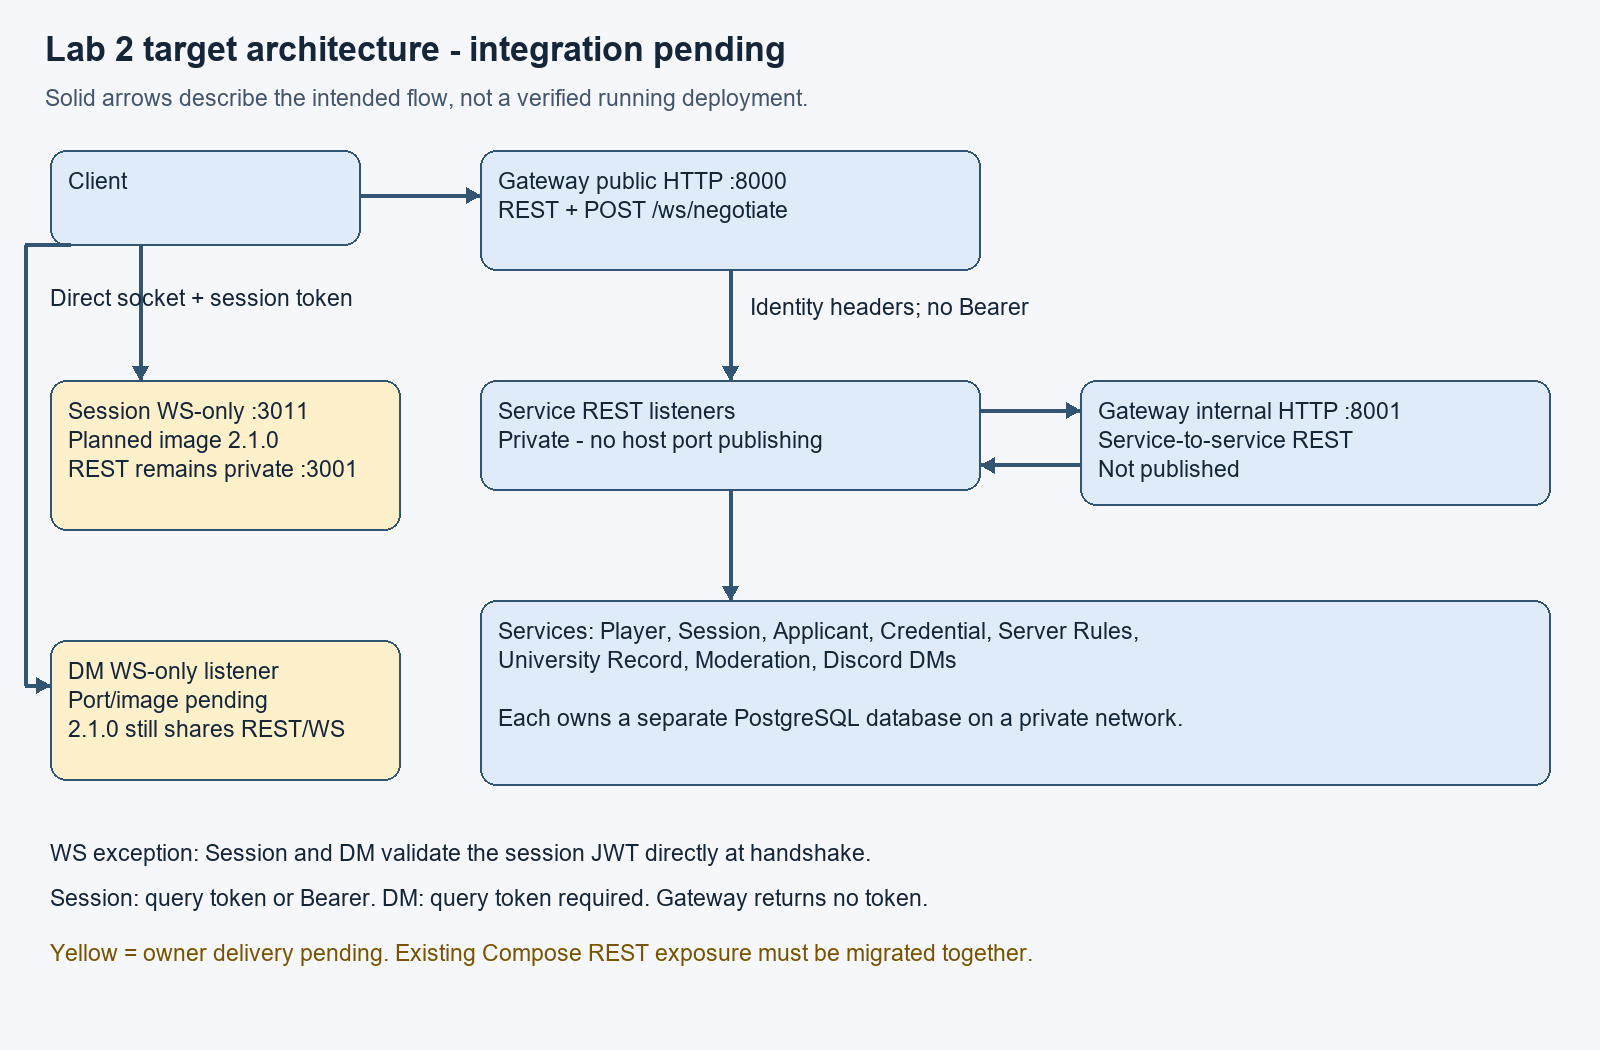
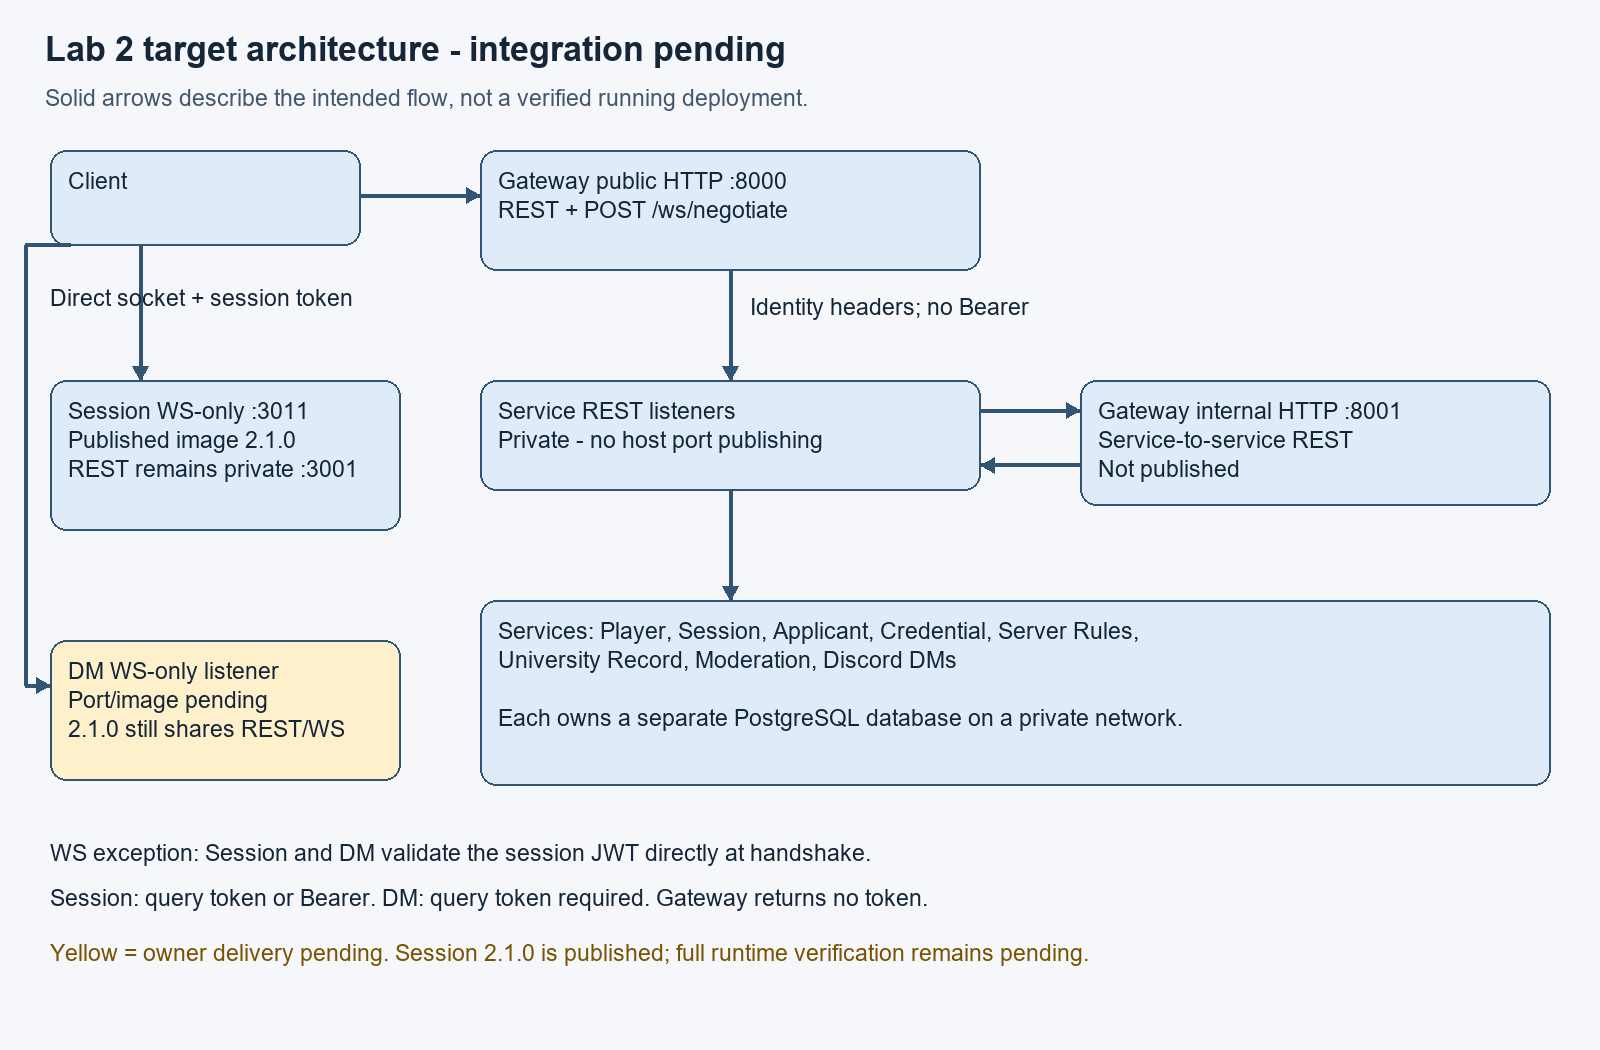
Verify Session WebSocket integration and improve startup diagnostics

Changed region(s): [[0.0312, 0.3657, 0.25, 0.5181], [0.25, 0.8838, 0.6875, 0.9143]]

diff --git a/tests/verify_compose_gateway.py b/tests/verify_compose_gateway.py
@@ -34,11 +34,12 @@ with response: print(json.dumps([response.status,response.read().decode()]))
 """
 
 
-def run(command, input=None, timeout=180):
-    result = subprocess.run(command, input=input, text=True, capture_output=True, timeout=timeout)
+def run(command, input=None, timeout=180, live=False):
+    result = subprocess.run(command, input=input, text=True, capture_output=not live, timeout=timeout)
     if result.returncode:
-        raise RuntimeError(result.stderr.strip() or result.stdout.strip())
-    return result.stdout.strip()
+        raise RuntimeError((result.stderr or "").strip() or (result.stdout or "").strip()
+                           or f"Command failed with exit code {result.returncode}; see output above.")
+    return (result.stdout or "").strip()
 
 
 def decode(body):
@@ -68,12 +69,14 @@ def free_port():
         return sock.getsockname()[1]
 
 
-def websocket_status(port, path):
+def websocket_status(port, path, token=None):
     with socket.create_connection(('127.0.0.1', port), timeout=10) as sock:
         key = base64.b64encode(secrets.token_bytes(16)).decode()
+        authorization = '' if token is None else f'Authorization: Bearer {token}\r\n'
         request = (f'GET {path} HTTP/1.1\r\nHost: 127.0.0.1:{port}\r\n'
                    'Upgrade: websocket\r\nConnection: Upgrade\r\n'
-                   f'Sec-WebSocket-Key: {key}\r\nSec-WebSocket-Version: 13\r\n\r\n')
+                   f'Sec-WebSocket-Key: {key}\r\nSec-WebSocket-Version: 13\r\n'
+                   f'{authorization}\r\n')
         sock.sendall(request.encode())
         return int(sock.recv(4096).split(b'\r\n', 1)[0].split()[1])
 
@@ -129,8 +132,8 @@ def main():
         command = ['docker', 'compose', '--project-directory', str(ROOT), '--env-file', str(env_file),
                    '-f', str(ROOT / 'docker-compose.yml'), '-p', project]
 
-        def compose(*parts, input=None):
-            return run([*command, *parts], input=input)
+        def compose(*parts, input=None, timeout=180, live=False):
+            return run([*command, *parts], input=input, timeout=timeout, live=live)
 
         def internal(path, method='GET', body=None, headers=None):
             headers = dict(headers or {})
@@ -152,15 +155,26 @@ def main():
                   [p['target'] for p in config['services']['session']['ports']], [3011])
             check('Player calls Session through internal Gateway',
                   config['services']['player']['environment']['SESSION_BASE_URL'], 'http://gateway:8001/session')
-            print('Starting disposable common Compose project...', flush=True)
+            # Pull missing images separately: downloads must not consume the
+            # service readiness deadline. Never pull over a local Gateway build.
+            for image in sorted({service['image'] for service in config['services'].values()}):
+                present = subprocess.run(['docker', 'image', 'inspect', image],
+                    stdout=subprocess.DEVNULL, stderr=subprocess.DEVNULL, timeout=30)
+                if present.returncode:
+                    if image == args.gateway_image:
+                        raise RuntimeError(f'Gateway image {image} is missing locally. Build or pull it first.')
+                    print(f'Downloading missing image: {image}', flush=True)
+                    run(['docker', 'pull', image], timeout=900, live=True)
+            print('Starting disposable common Compose project (readiness limit: 300 seconds)...', flush=True)
             try:
-                compose('up', '-d', '--wait', '--wait-timeout', '120')
-            except RuntimeError:
+                compose('up', '-d', '--pull', 'never', '--wait', '--wait-timeout', '300',
+                        timeout=600, live=True)
+            except (RuntimeError, subprocess.TimeoutExpired):
                 # Preserve startup diagnostics before disposable resources are
                 # removed. Startup logs contain no test accounts or tokens.
                 for row in compose('ps', '--all', '--format', 'json').splitlines():
                     container = json.loads(row)
-                    if container['State'] == 'exited':
+                    if container['State'] != 'running' or container.get('Health') == 'unhealthy':
                         service = container['Service']
                         print(compose('logs', '--no-color', '--tail', '35', service), flush=True)
                 raise
@@ -229,6 +243,12 @@ def main():
                   websocket_status(session_ws.port, session_ws.path + '?token=' + session['sessionToken']), 101)
             check('Session WS rejects an invalid token',
                   websocket_status(ports[1], f'/sessions/{session_id}/live?token=invalid'), 401)
+            check('Session WS accepts Bearer transport',
+                  websocket_status(session_ws.port, session_ws.path, session['sessionToken']), 101)
+            check('Session WS rejects a missing token',
+                  websocket_status(session_ws.port, session_ws.path), 401)
+            check('Session WS rejects a mismatched session',
+                  websocket_status(session_ws.port, f'/sessions/{uuid.uuid4()}/live', session['sessionToken']), 403)
             check('DM WS validates the same session token',
                   websocket_status(dm_ws.port, dm_ws.path + '?' + dm_ws.query + '&token=' + session['sessionToken']), 101)
             check('DM WS rejects an invalid token', websocket_status(ports[2], f'/ws?sessionId={session_id}&token=invalid'), 401)

diff --git a/scripts/render_gateway_diagram.py b/scripts/render_gateway_diagram.py
@@ -35,7 +35,7 @@ d.text((750,294),'Identity headers; no Bearer',font=font,fill='#152638')
 box((1080,380,1550,505),'Gateway internal HTTP :8001\nService-to-service REST\nNot published')
 arrow([(980,410),(1080,410)])
 arrow([(1080,465),(980,465)])
-box((50,380,400,530),'Session WS-only :3011\nPlanned image 2.1.0\nREST remains private :3001', '#fff0cc')
+box((50,380,400,530),'Session WS-only :3011\nPublished image 2.1.0\nREST remains private :3001', '#e0ebfa')
 arrow([(140,245),(140,380)])
 d.text((50,285),'Direct socket + session token',font=font,fill='#152638')
 box((50,640,400,780),'DM WS-only listener\nPort/image pending\n2.1.0 still shares REST/WS', '#fff0cc')
@@ -44,6 +44,6 @@ box((480,600,1550,785),'Services: Player, Session, Applicant, Credential, Server
 arrow([(730,490),(730,600)])
 d.text((50,840),'WS exception: Session and DM validate the session JWT directly at handshake.',font=font,fill='#152638')
 d.text((50,885),'Session: query token or Bearer. DM: query token required. Gateway returns no token.',font=font,fill='#152638')
-d.text((50,940),'Yellow = owner delivery pending. Existing Compose REST exposure must be migrated together.',font=font,fill='#785300')
+d.text((50,940),'Yellow = owner delivery pending. Session 2.1.0 is published; full runtime verification remains pending.',font=font,fill='#785300')
 Path('docs/images').mkdir(exist_ok=True)
 im.save('docs/images/gateway-lab2-target.png')

diff --git a/docs/gateway-websocket-contract.md b/docs/gateway-websocket-contract.md
@@ -31,30 +31,24 @@ SESSION_PUBLIC_WS_BASE_URL and DM_PUBLIC_WS_BASE_URL are client-visible ws/wss
 base URLs, separate from Docker-internal REST upstream URLs. localhost values
 are only suitable when the client runs on the Docker host.
 
-## Session owner confirmation and pending deployment
+## Session 2.1.0: published and configured; local verification pending
 
-Confirmed handshake path: /sessions/{sessionId}/live. Token transport is either
-?token=<jwt> or Authorization: Bearer <jwt>. Session verifies the token itself
-because this connection bypasses Gateway; this is the explicit WS authentication
-exception. The owner reports pre-upgrade rejection for missing token (401),
-session mismatch (403) and connection limit (429).
+Owner-confirmed handshake: `/sessions/{sessionId}/live`, with either
+`?token=<jwt>` or `Authorization: Bearer <jwt>`. Session verifies the token
+itself because this socket bypasses Gateway. Missing/invalid tokens return 401,
+session mismatch 403 and connection limit 429 before the upgrade.
 
-CONFIRMED AND PUBLISHED: the separate WS listener is on 3011 in
-`catalinasiminiuc/pad-server-moderation-session-service:2.1.0`, which is on
-Docker Hub for amd64 and arm64. Plain HTTP to that port returns
-`426 UPGRADE_REQUIRED` without reaching Express, and REST stays private on
-3001, which Compose does not publish. `2.0.1` does **not** contain the
-listener, so a deployment pinned to it must keep proxying the socket instead.
+Image `catalinasiminiuc/pad-server-moderation-session-service:2.1.0` is published
+for linux/amd64 and linux/arm64 (registry checked 9 October 2026).
+Shared dev `def8ad6` already configures REST on private 3001 and WS on 3011.
+The WS listener answers 426 to plain HTTP without exposing Express routes.
+SESSION_PUBLIC_WS_BASE_URL is no longer pending publication; use a client-visible
+base such as `ws://localhost:3011` (Compose defaults to the equivalent loopback
+address 127.0.0.1). Keep SESSION_WS_PORT and the public base consistent.
 
-Common Compose publishes 3011 from the `session` service itself and configures:
-
-```dotenv
-SESSION_PUBLIC_WS_BASE_URL=ws://127.0.0.1:3011
-```
-
-Verified in the shared deployment by `tests/verify_compose_gateway.py`:
-negotiation returns that URL, the handshake answers `101` with a real session
-token and `401` with an invalid one, and ordinary REST on 3011 answers `426`.
+The integration test defaults to 2.1.0 and checks plain HTTP rejection, query and
+Bearer handshakes, missing/invalid tokens and session mismatch. These new checks
+have not yet been executed here; previous results with 2.0.1 are historical.
 
 ## DM confirmed handshake; separate listener not implemented
 
@@ -89,7 +83,7 @@ Do not publish the shared REST/WS listener as the final Lab 2 arrangement.
 
 | Owner | Required before shared runtime verification |
 |---|---|
-| Session | Publish 2.1.0 and confirm the separate 3011 listener is in that image |
+| Session | Published 2.1.0; rerun dedicated-listener checks and resolve real outgoing-client integration |
 | DM | Implement a WS-only listener, confirm plain-HTTP rejection behaviour, port and published image tag |
 | Gateway/shared stack | Confirm released Gateway image includes PR #6; wire Compose and migrate callers together |
 
@@ -171,3 +165,28 @@ passing Lab 2 checks.
 Target architecture PNG: `docs/images/gateway-lab2-target.png`. Editable sources:
 `docs/gateway-lab2.mmd` and `scripts/render_gateway_diagram.py` (Pillow renderer).
 The existing Lab 1 diagram remains intact.
+
+## Current shared-dev integration supersedes the preparation baseline
+
+Shared dev `def8ad6` includes Gateway and Session 2.1.0, private domain REST ports,
+updated caller URLs, and `tests/verify_compose_gateway.py`. Earlier baseline and
+preparation notes above describe the old 9c41b8a snapshot, not current Compose.
+The local-build overlay now overrides only Gateway build/image; it inherits the
+base port (8080 by default), keys and WS environment instead of adding port 8000
+or replacing the confirmed Session base with an empty value.
+
+For local Gateway builds, set GATEWAY_IMAGE=pad-gateway-service:dev and
+GATEWAY_SOURCE_DIR to the existing Gateway checkout. Both are needed because
+Compose interpolates the base file before merging. Other required image/secret
+values must also be supplied for full configuration validation.
+
+DM currently uses a Caddy WS-only edge in the teammate's merged configuration.
+This prevents ordinary REST publication but is not the previously agreed native
+separate-listener implementation. It is retained unchanged pending team review;
+do not claim DM has implemented its own separate listener. Earlier recommendations
+to leave DM base empty describe the proposed native-listener deployment only.
+
+Run Postman with gatewayBaseUrl=http://127.0.0.1:8080 (or GATEWAY_HTTP_PORT).
+Only use the unconfigured-WS test folder when the corresponding bases really
+are absent; current Compose configures them. Real handshake tests remain distinct
+from successful HTTP negotiation.

diff --git a/docs/gateway-integration.md b/docs/gateway-integration.md
@@ -1,8 +1,8 @@
 # Common Gateway integration
 
 Verified on 8 October 2026. This is the integration work on
-`feat/gateway-service-integration`, based on CPR `dev` at `9c41b8a`. It has not
-been merged into the common repository. Container startup and functioning
+`feat/gateway-service-integration`, based on CPR `dev` at `9c41b8a`. That work is now merged into the common repository; the results below remain
+a historical run, not a new verification of Session 2.1.0. Container startup and functioning
 authentication do not establish that the full Lab 2 game is ready.
 
 ## Scope and ownership
@@ -178,7 +178,7 @@ DB password and CREDENTIAL_ISSUER_SECRET can be generated with
 out of Git. The REST port is configurable by GATEWAY_HTTP_PORT; the default
 8080 avoids other local applications using 8000.
 
-The code changes currently exist only on the local CPR integration branch.
+The original integration changes are now present in shared dev.
 Open a board issue for this integration and link it in a draft PR from
 `feat/gateway-service-integration` to `dev`. Ask the owners of affected
 services to review it. Supply and test the compatible images and complete the
@@ -193,3 +193,44 @@ Other Lab 2 work still needs its own evidence: all-service task limits,
 all-service CI publication, full realtime delivery, and a
 Postman/demo flow updated for Gateway. CPR `dev` goes into `master` only when
 the lab is ready to present, as required by the repository workflow.
+
+
+### Session 2.1.0 follow-up (9 October 2026)
+
+The image is published for both architectures and already selected by Compose.
+The historical 37/41 report above is not evidence for the new listener. Rerun
+`tests/verify_compose_gateway.py`; its Session checks now include Bearer transport,
+missing token and mismatched session, alongside query-token and plain-HTTP checks.
+No new runtime pass count is claimed. DM's Caddy edge remains unchanged, pending
+agreement on the difference from the planned service-owned dedicated listener.
+
+
+### User-run follow-up: 43/45 checks passed (9 October 2026)
+
+The user reran the updated diagnostic with local images
+`loredanaaaa/server-rules-service:2.0.0-rc.1` and
+`loredanaaaa/university-record-service:2.0.0-rc.1`, local
+`pad-gateway-service:dev`, and published Session 2.1.0.
+This is a user-supplied console result, not a regenerated JSON report.
+The historical JSON and 37/41 run above have not been overwritten.
+
+Rules internal creation now returns 201; Records reference read with Gateway
+identity returns 200. Session query-token and Bearer handshakes return 101;
+missing/invalid tokens return 401 and mismatched session returns 403.
+Session plain HTTP returns 426; DM edge plain HTTP returns 404.
+
+Two checks remain failing with 404:
+- ApplicantInitialized automatically reaches Credential (George's event delivery).
+- Session next-applicant exists in real Applicant (Session outgoing integration).
+
+Both candidate Rules/Records images are local builds only. No multi-platform
+publication is claimed. Their service suites passed locally: Rules 18 tests /
+126 assertions; Records 26 tests / 181 assertions. Fixture-based tests do not
+establish real University Record event ingestion. All-service limits, CI and
+complete game/realtime flows still need their own implementation and evidence.
+
+The runner now downloads missing images before starting the readiness timer,
+shows Docker progress, and allows 300 seconds for Compose readiness (600-second
+outer process limit). Cached images are reused; the local Gateway image must
+already exist. The earlier 180-second startup timeout is not counted as a
+service assertion failure.
